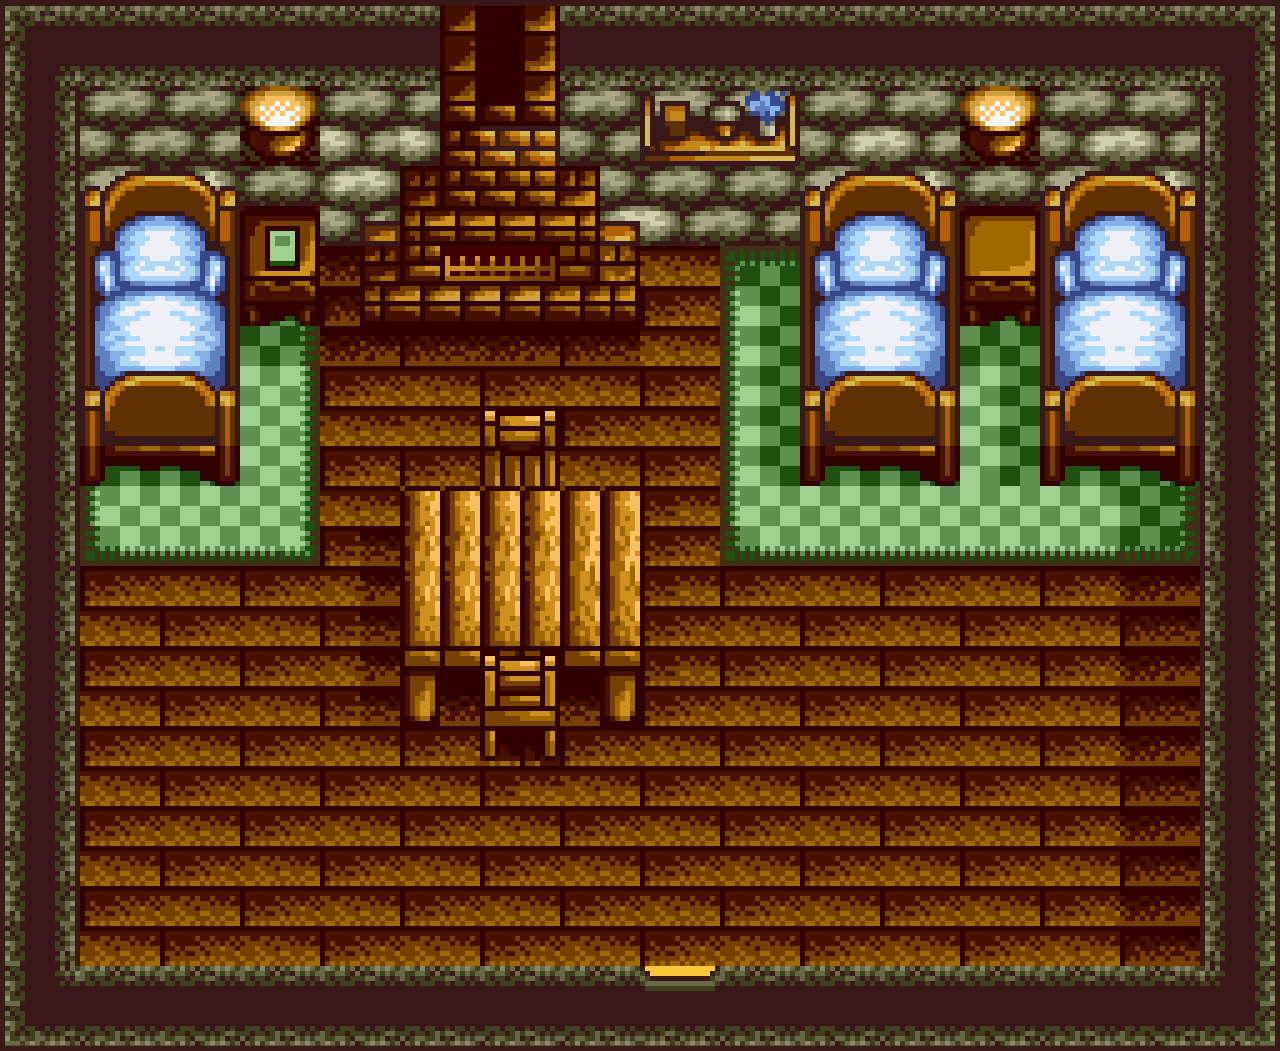
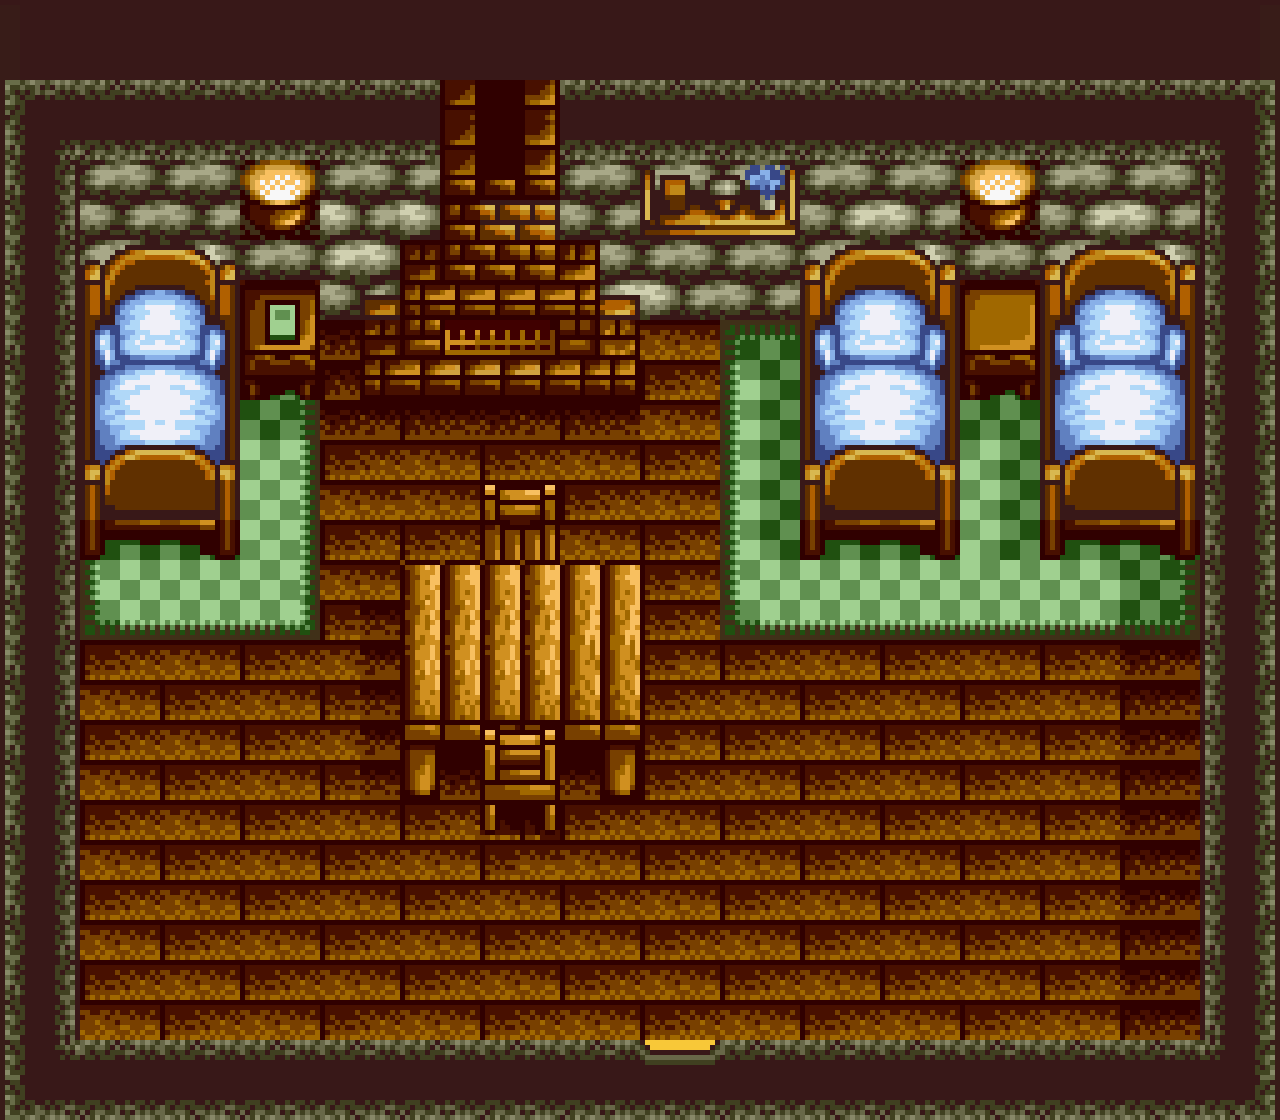
adding bar bedroom

diff --git a/src/config/game-config.js b/src/config/game-config.js
@@ -322,12 +322,16 @@ let gameConfig = {
       },
       playerStartPos: {
         sceneTown: {
-          x: 750,
-          y: 800
+          x: 730,
+          y: 880
+        },
+        sceneBedroomBar: {
+          x: 680,
+          y: 250
         },
         default: {
-          x: 750,
-          y: 800
+          x: 730,
+          y: 880
         },
       }
     },
@@ -380,7 +384,25 @@ let gameConfig = {
     sceneAnimalShop: {},
 
     // townspeople bedroom
-    sceneBedroomBar: {},
+    sceneBedroomBar: {
+      key: 'map-bedroom-bar',
+      imgKey: 'bedroom-bar',
+      tileSetName: 'bedroom-bar-tileset-20px',
+      mapBounds: {
+        height: 1120,
+        width: 1280
+      },
+      playerStartPos: {
+        sceneBar: {
+          x: 675,
+          y: 950
+        },
+        default: {
+          x: 675,
+          y: 950
+        },
+      }
+    },
     sceneBedroomManor: {
       key: 'map-bedroom-manor',
       imgKey: 'bedroom-manor',

diff --git a/src/classes/ImageLoader.js b/src/classes/ImageLoader.js
@@ -113,6 +113,8 @@ export default class ImageLoader {
 
       // town bedrooms
       case 'sceneBedroomBar': {
+        this.scene.load.image( 'bedroom-bar', 'images/background/bedroom-bar.png' );
+        this.scene.load.tilemapTiledJSON( 'map-bedroom-bar', 'levels/bedroom-bar-20px.json' );
         break;
       }
       case 'sceneBedroomManor': {
